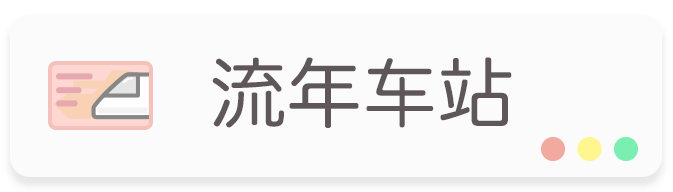
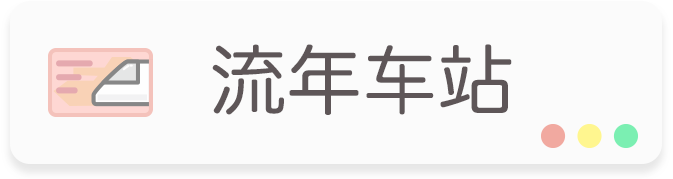
button pic

diff --git a/css/main.css b/css/main.css
@@ -361,7 +361,7 @@ body {
     width: 60%;
     margin-bottom: 3%;
     min-width: 216px;
-    min-height: 62px;
+    min-height: 60px;
 }
 
 .photoWallPage {
